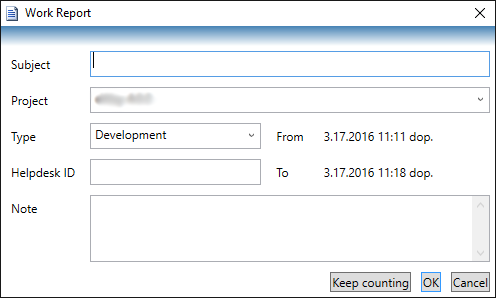
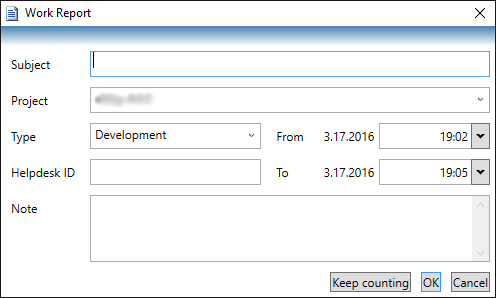
refs #13: Display date

Changed region(s): [[0.756, 0.3926, 0.998, 0.6342]]

diff --git a/WorkReport/WorkReportWindow.xaml b/WorkReport/WorkReportWindow.xaml
@@ -50,8 +50,14 @@
         </local:AutoFilteredComboBox>
         <ComboBox Margin="5" x:Name="cboType" DisplayMemberPath="FileAs" SelectedValuePath="ItemGuid" IsTextSearchEnabled="True" SelectedValue="{Binding Type}" Grid.Column="1" Grid.Row="3" IsEditable="True"/>
         <TextBox Margin="5" x:Name="tbxReservedField" Grid.Column="1" Grid.Row="4" Text="{Binding ReservedField}"/>
-        <xctk:TimePicker ShowButtonSpinner="False" IsOpen="False" Margin="5" x:Name="lblFrom" Grid.Column="3" Grid.Row="3" Value="{Binding FromTime}"/>
-        <xctk:TimePicker ShowButtonSpinner="False" IsOpen="False" Margin="5" x:Name="lblTo" Grid.Column="3" Grid.Row="4" Value="{Binding ToTime}"/>
+        <DockPanel Grid.Column="3" Grid.Row="3">
+            <Label Margin="5" Content="{Binding FromTime}" ContentStringFormat="d" />
+            <xctk:TimePicker ShowButtonSpinner="False" IsOpen="False" Margin="5" x:Name="lblFrom" Value="{Binding FromTime}"/>
+        </DockPanel>
+        <DockPanel Grid.Column="3" Grid.Row="4">
+            <Label Margin="5" Content="{Binding ToTime}" ContentStringFormat="d" />
+            <xctk:TimePicker ShowButtonSpinner="False" IsOpen="False" Margin="5" x:Name="lblTo" Value="{Binding ToTime}"/>
+        </DockPanel>
         <TextBox Margin="5" x:Name="tbxNote" AcceptsReturn="True" VerticalScrollBarVisibility="Visible" Grid.Column="1" Grid.Row="5" Grid.ColumnSpan="3" Text="{Binding Note}"/>
 
         <StackPanel Orientation="Horizontal" Grid.Row="6" Grid.ColumnSpan="4" HorizontalAlignment="Right">

diff --git a/WorkReport/SummaryWindow.xaml b/WorkReport/SummaryWindow.xaml
@@ -1,7 +1,7 @@
 <Window x:Class="TimeClock.SummaryWindow"
     xmlns="http://schemas.microsoft.com/winfx/2006/xaml/presentation"
     xmlns:x="http://schemas.microsoft.com/winfx/2006/xaml"
-    Title="Summary" Height="400" Width="660" WindowStartupLocation="CenterScreen"
+    Title="Summary" Height="440" Width="700" WindowStartupLocation="CenterScreen"
     Icon="Images/summary.ico" ResizeMode="CanMinimize">
 
     <Grid>
@@ -54,6 +54,8 @@
                             </DataTemplate>
                         </GridViewColumn.CellTemplate>
                     </GridViewColumn>
+                    <GridViewColumn HeaderContainerStyle="{StaticResource columnHeaderStyle}" Header="Date" Width="70"
+                                    DisplayMemberBinding="{Binding Path=FromTime, StringFormat={}\{0:d\}}"></GridViewColumn>
                     <GridViewColumn HeaderContainerStyle="{StaticResource columnHeaderStyle}" Header="From" Width="50"
                                     DisplayMemberBinding="{Binding Path=FromTime, StringFormat={}\{0:HH:mm\}}"></GridViewColumn>
                     <GridViewColumn HeaderContainerStyle="{StaticResource columnHeaderStyle}" Header="To" Width="50"

diff --git a/README.md b/README.md
@@ -5,7 +5,7 @@ It runs in Windows system tray.
 
 ![timeclock_tray](Images/timeclock_tray.png)
 
-Just use your mouse to start or stop counting by clicking the clock icon.
+Just use your mouse to start or stop counting by clicking the clock icon. You can adjust the times if needed.
 
 ![timeclock_workreport](Images/timeclock_workreport.png)
 
